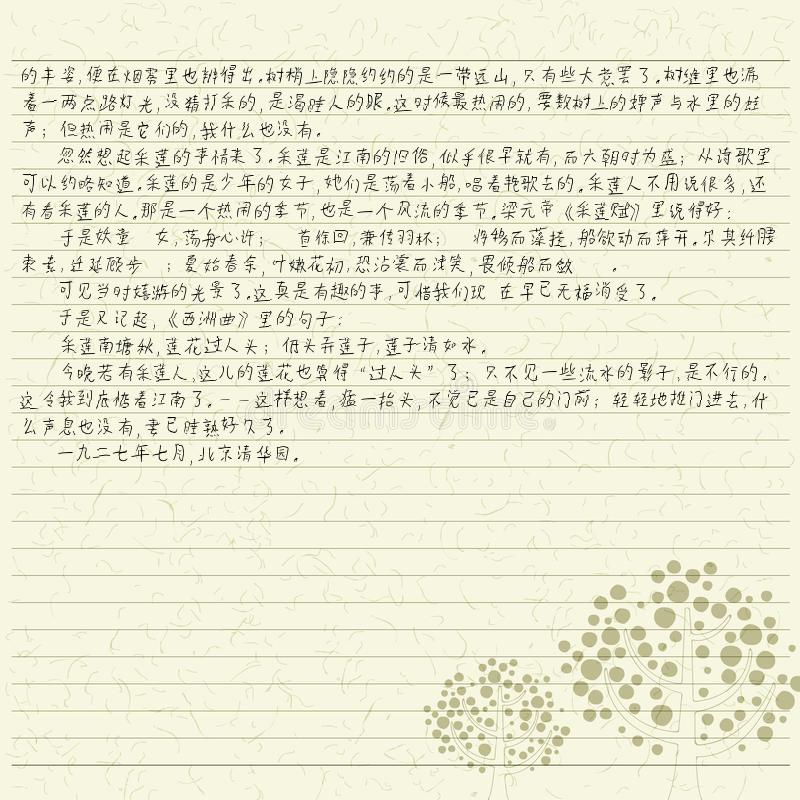
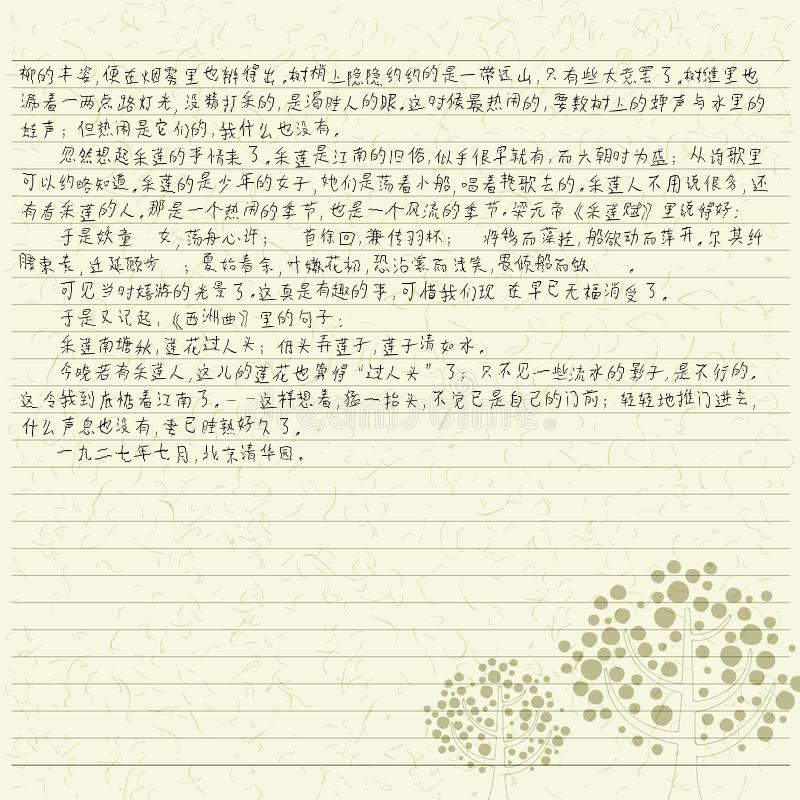
修复字形纵向出现“断层”的BUG;'x_amplitude'和'y_amplitude'默认值改为0.06*font_size;update version to 0.1.4;etc.

Changed region(s): [[0.0312, 0.0625, 0.9688, 0.5938]]

diff --git a/pylf/core.py b/pylf/core.py
@@ -51,9 +51,9 @@ def handwrite(text, template: dict, worker: int=0) -> list:
         Advanced:
         If you do NOT fully understand the algorithm, please leave these value default.
         'x_amplitude': <float>
-            default: 0.05 * font_size.
+            default: 0.06 * font_size.
         'y_amplitude': <float>
-            default: 0.05 * font_size.
+            default: 0.06 * font_size.
         'x_wavelength': <float>
             default: 2 * font_size.
         'y_wavelength': <float>
@@ -71,9 +71,9 @@ def handwrite(text, template: dict, worker: int=0) -> list:
     """
     font_size = template['font_size']
     if 'x_amplitude' not in template:
-        template['x_amplitude'] = 0.05 * font_size
+        template['x_amplitude'] = 0.06 * font_size
     if 'y_amplitude' not in template:
-        template['y_amplitude'] = 0.05 * font_size
+        template['y_amplitude'] = 0.06 * font_size
     if 'x_wavelength' not in template:
         template['x_wavelength'] = 2 * font_size
     if 'y_wavelength' not in template:
@@ -218,7 +218,7 @@ def _perturb_factory(x_amplitude, y_amplitude, x_wavelength, y_wavelength, x_lam
                 start = y + random.expovariate(y_lambd)
             if y <= start:
                 continue
-            offset = int(y_amplitude * (sin(2 * pi *(y - start) / y_wavelength) + 1))
+            offset = int(y_amplitude * (sin(2 * pi *(y - start) / y_wavelength - pi / 2) + 1))
             for x in range(width - offset):
                 px[x, y] = px[x + offset, y]
             for x in range(width - offset, width):

diff --git a/setup.py b/setup.py
@@ -13,7 +13,7 @@ classifiers = [
 ]
 setup(
     name='pylf',
-    version='0.1.3',
+    version='0.1.4',
     author='Gsllchb',
     author_email="Gsllchb@gmail.com",
     packages=find_packages(),
